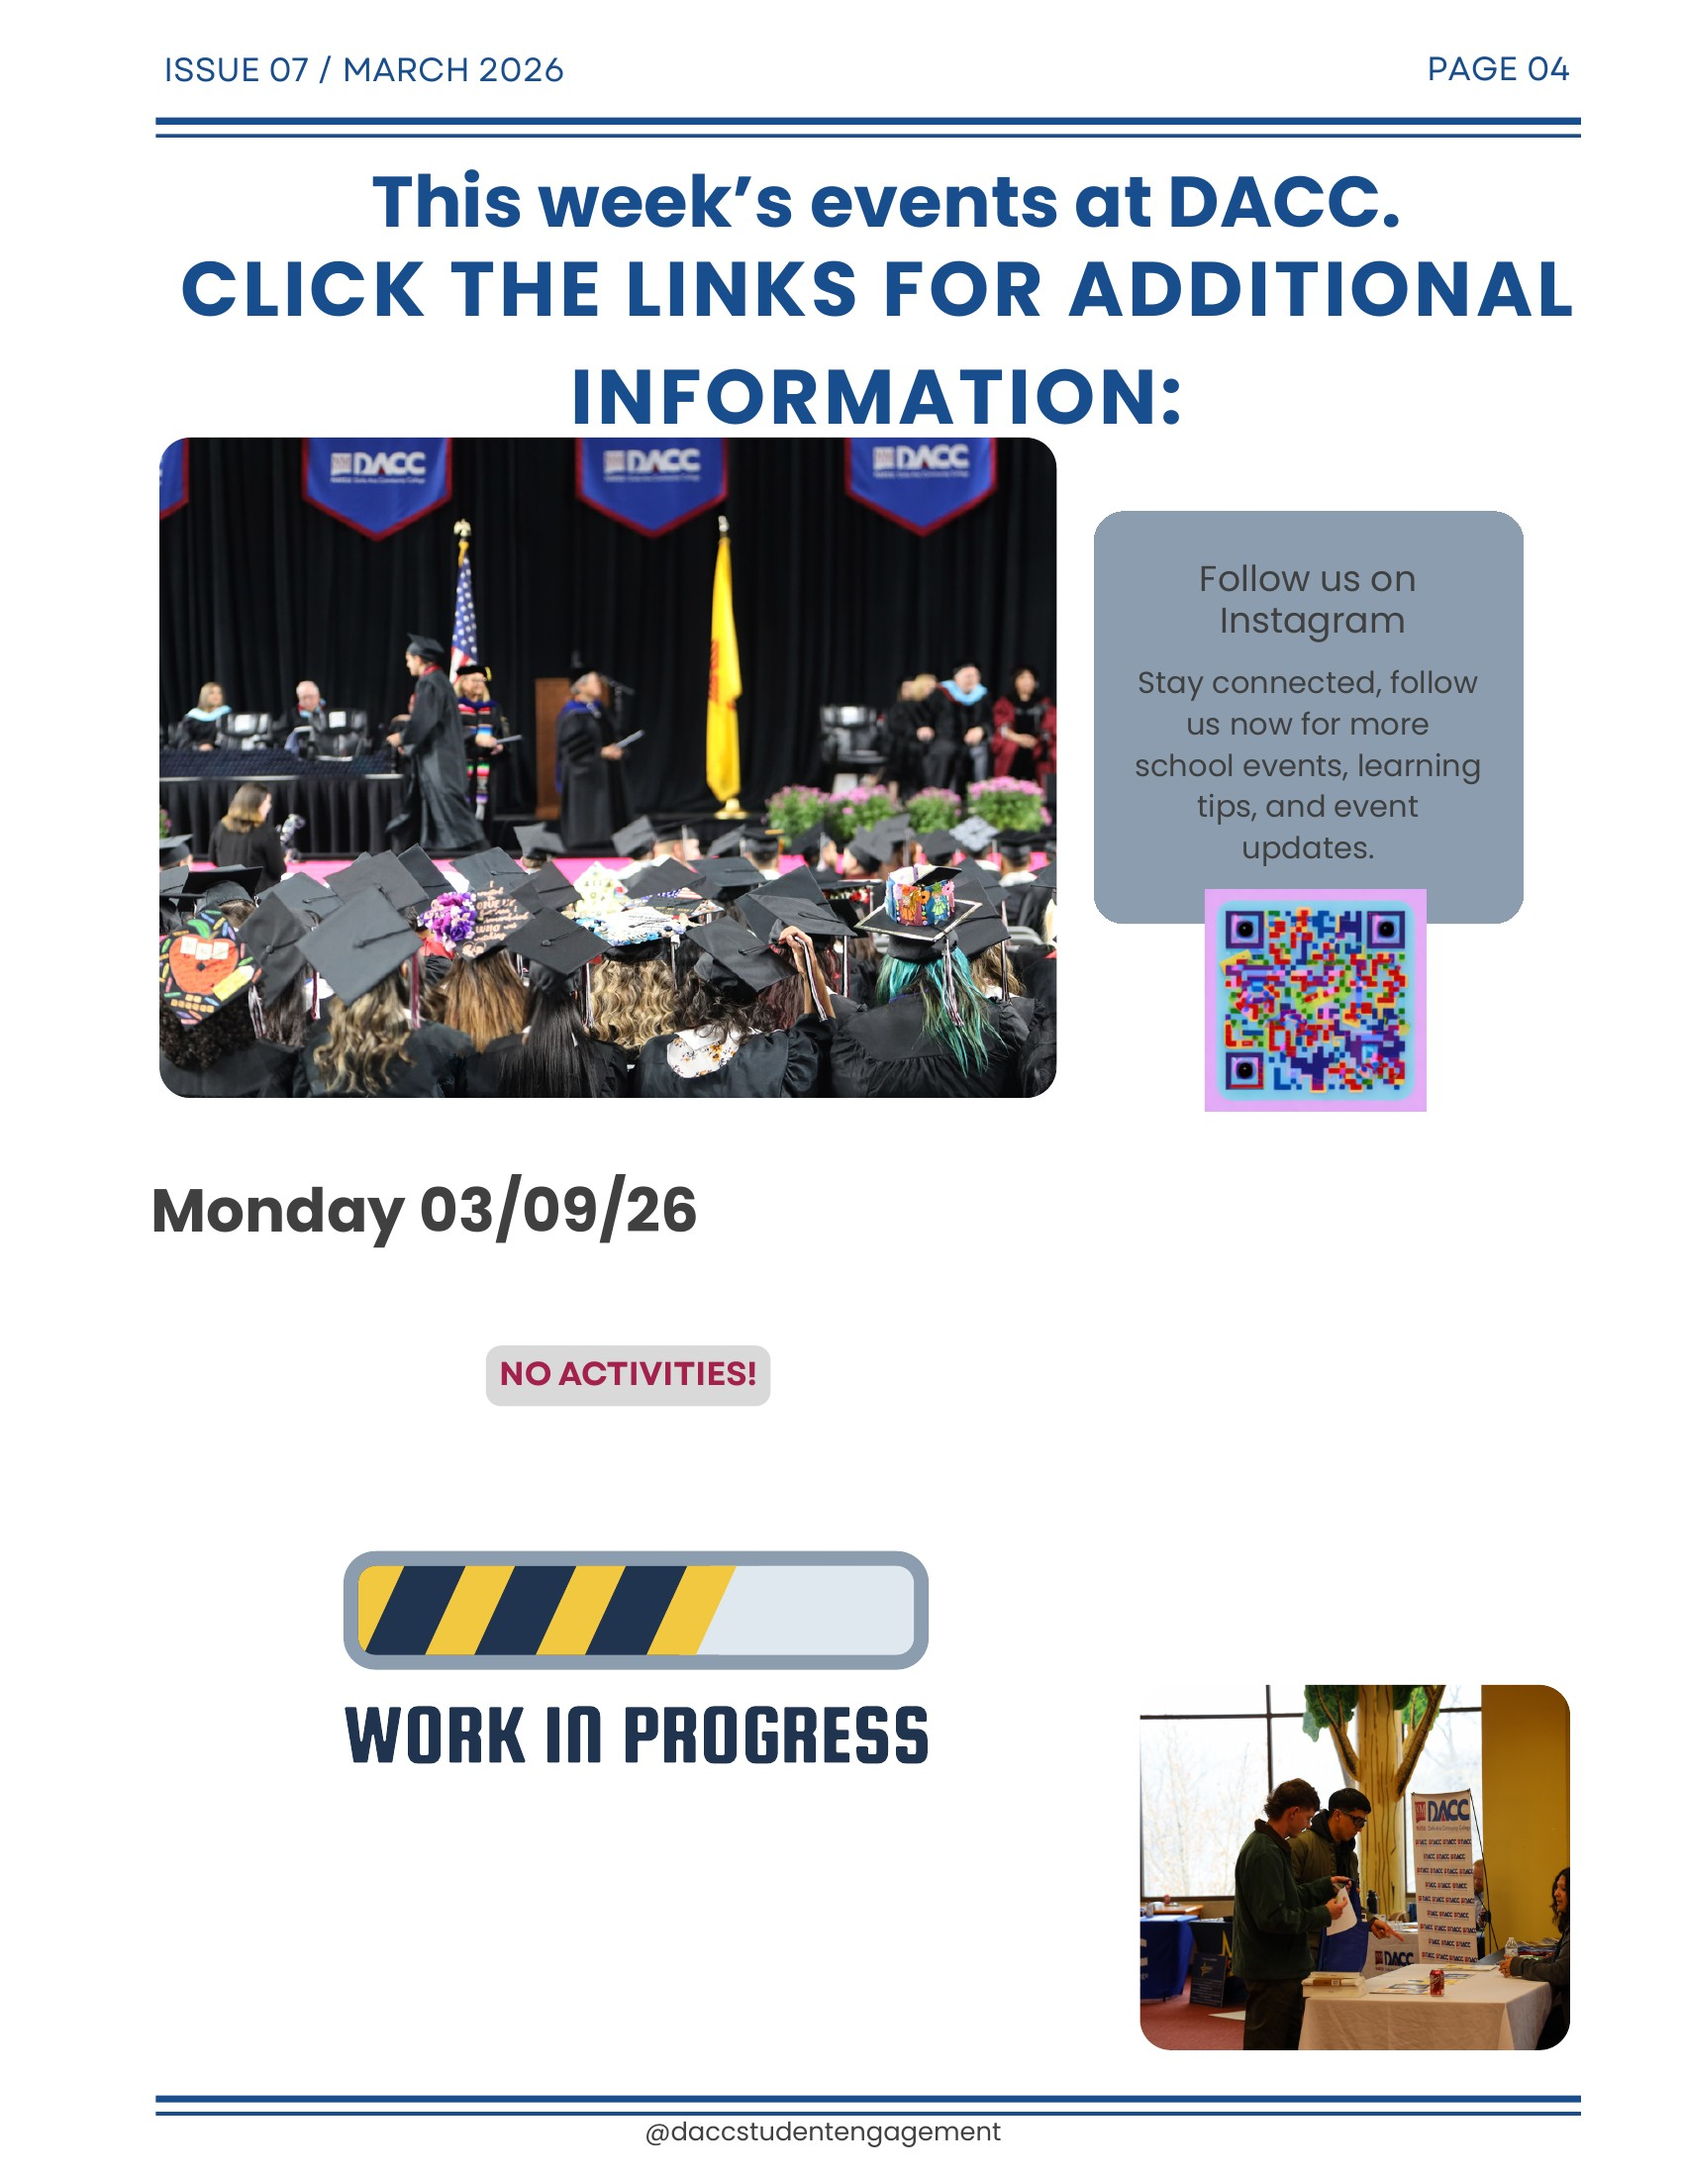
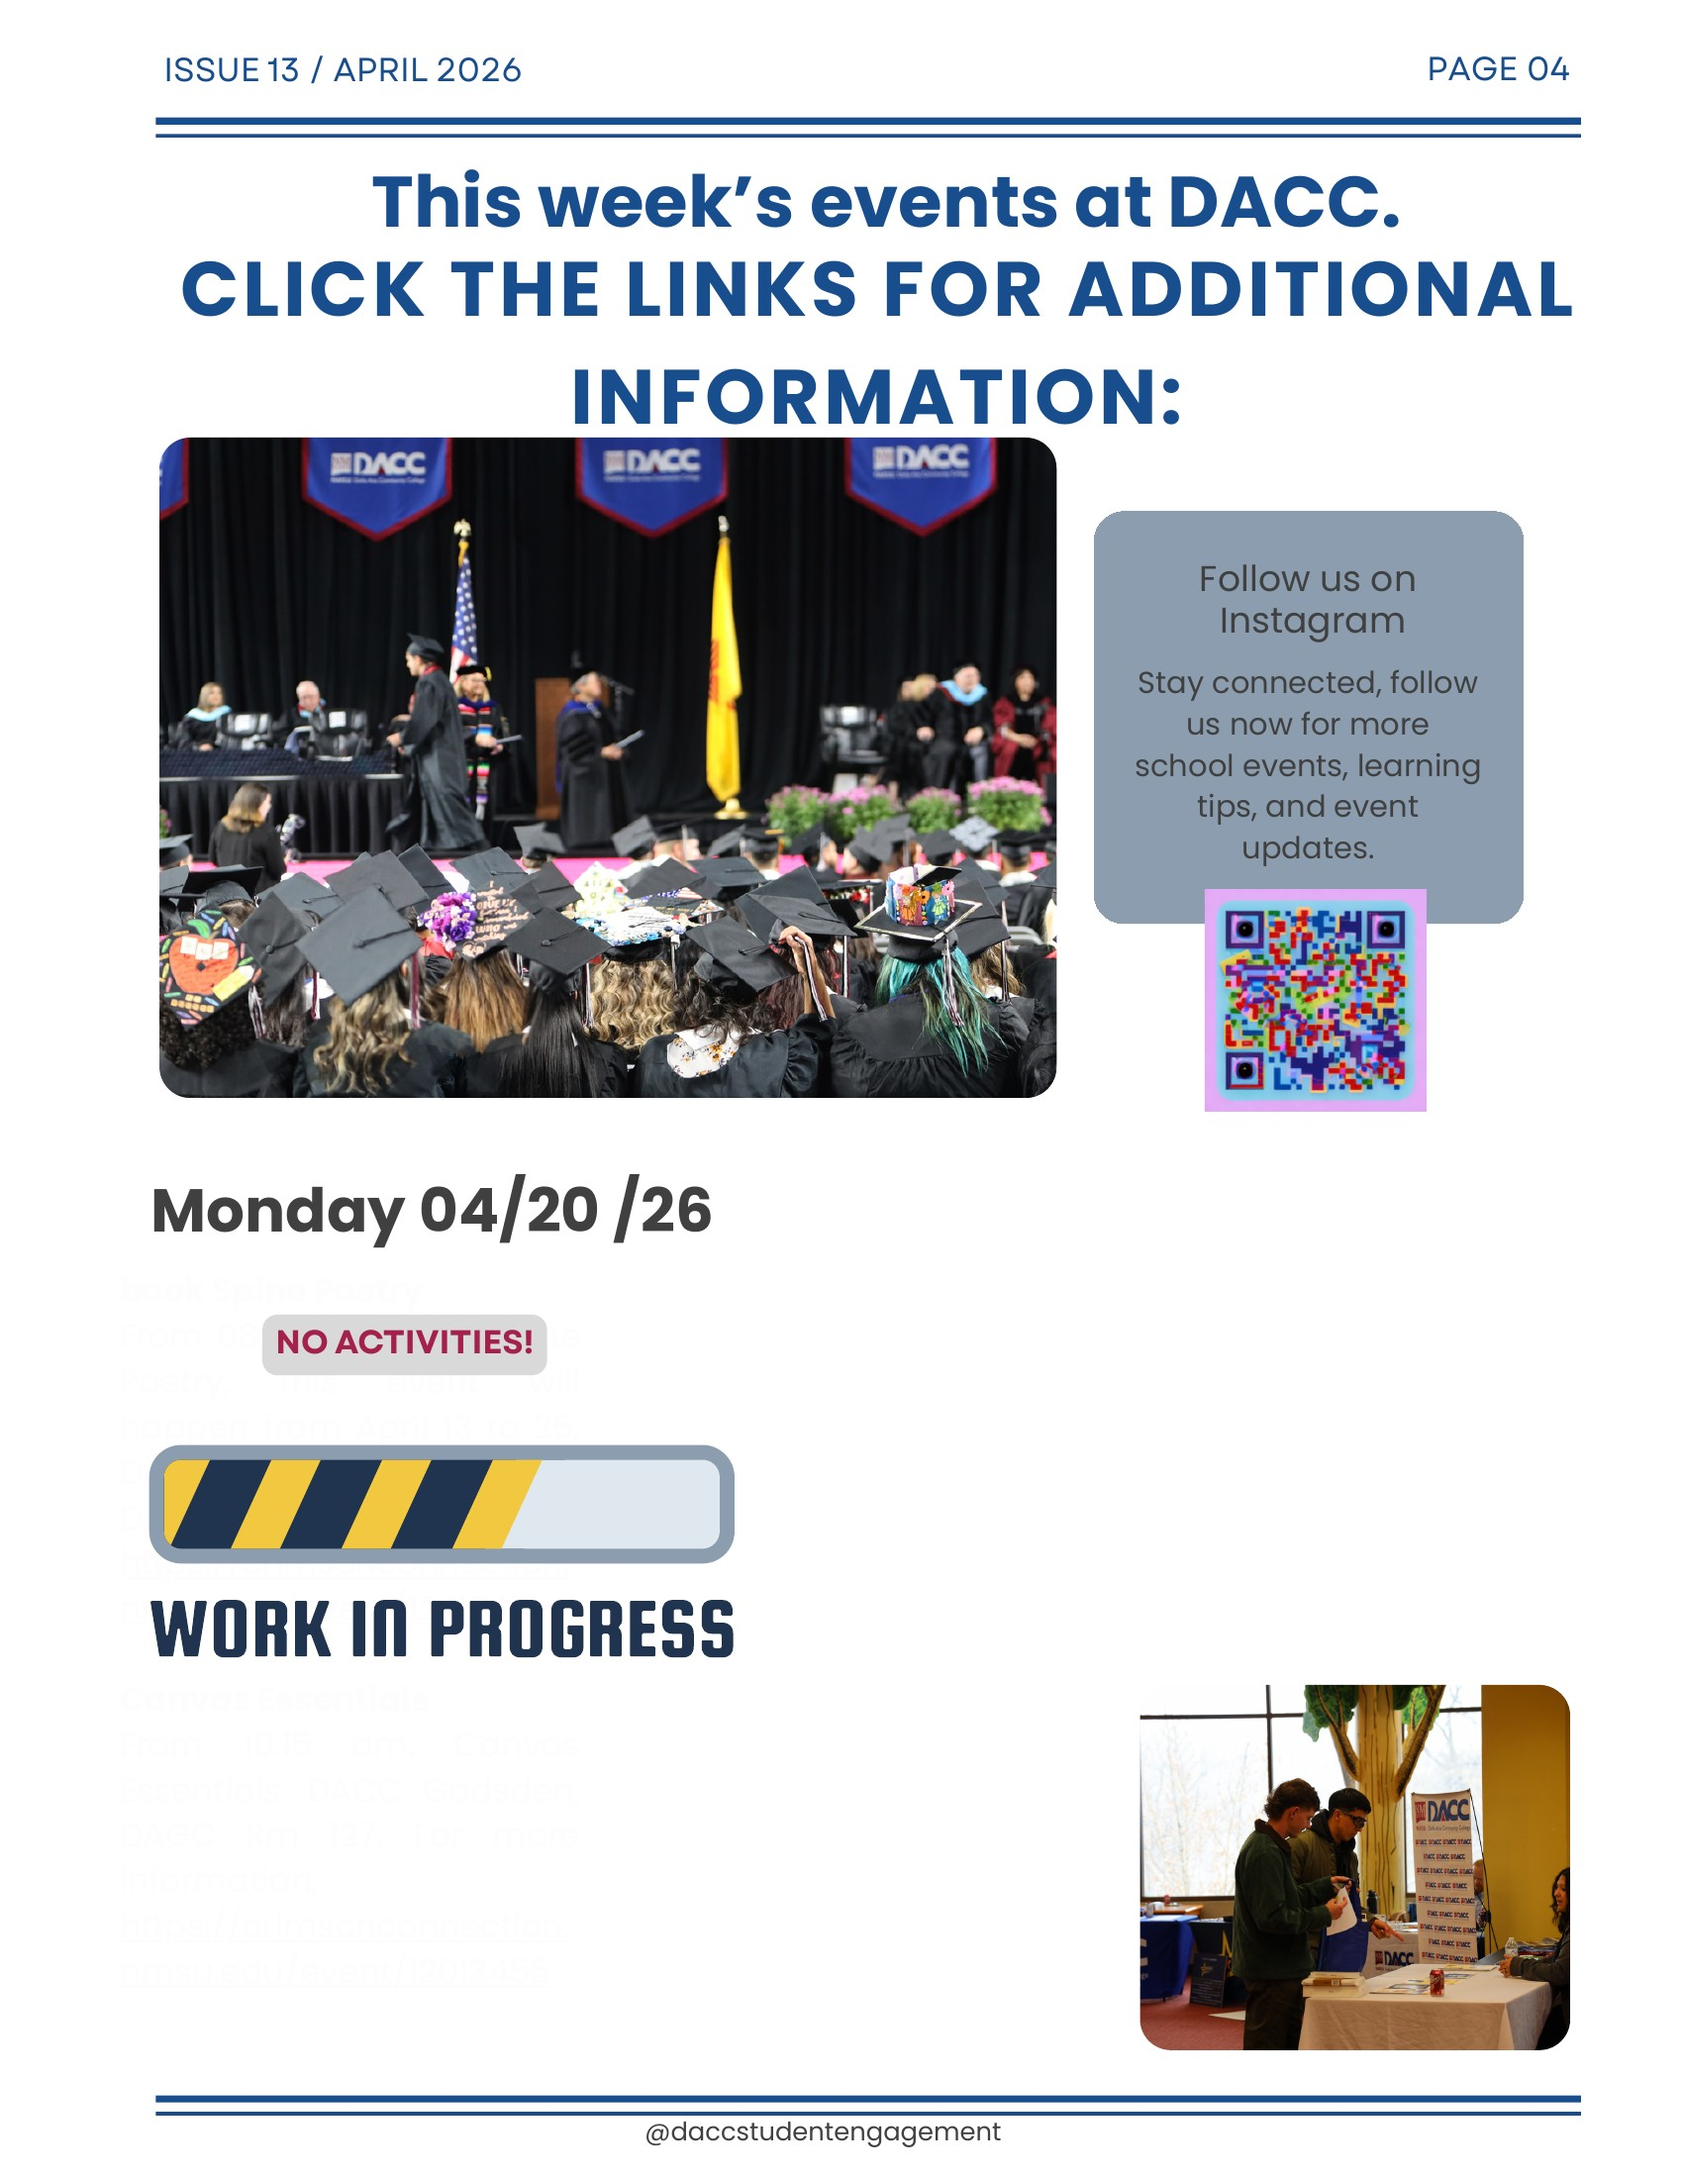
Update to DACC Newsletter Issue 13 - April 2026

Changed region(s): [[0.0624, 0.5255, 0.5612, 0.8345], [0.1871, 0.0309, 0.2806, 0.0618]]

diff --git a/config.js b/config.js
@@ -1,6 +1,6 @@
 const FLIPBOOK_CONFIG = {
 
-  title: "DACC Newsletter - Issue 07",
+  title: "DACC Newsletter - Issue 13",
   totalPages: 10,
   backgroundColor: "#2c3e50",
   pageWidth: 1700,
